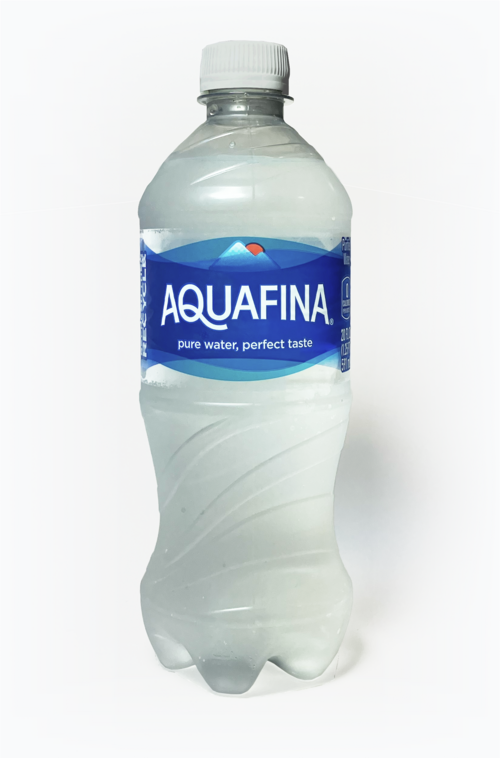
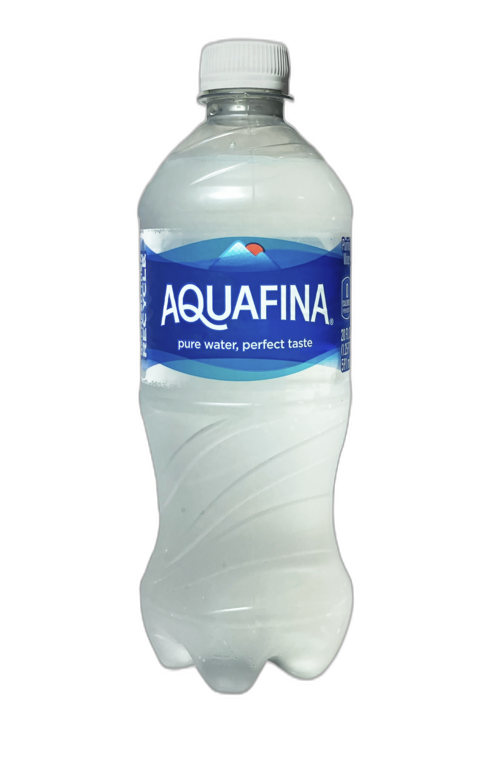
Xóa nền ảnh sản phẩm (rembg) - ảnh PNG trong suốt

diff --git a/index.html b/index.html
@@ -278,31 +278,31 @@
    ============================================================ */
 const PRODUCTS = [
   // --- Nước suối / khoáng ---
-  { id: 1,  name: "Nước suối Lavie 500ml",   category: "Nước suối",   price: 5000,  unit: "chai", desc: "Nước khoáng thiên nhiên, tinh khiết.",        icon: "💧", image: "images/1.jpg" },
+  { id: 1,  name: "Nước suối Lavie 500ml",   category: "Nước suối",   price: 5000,  unit: "chai", desc: "Nước khoáng thiên nhiên, tinh khiết.",        icon: "💧", image: "images/1.png" },
   { id: 2,  name: "Aquafina 500ml",          category: "Nước suối",   price: 5000,  unit: "chai", desc: "Nước tinh khiết đóng chai Pepsi.",            icon: "💦", image: "images/2.png" },
-  { id: 3,  name: "Nước khoáng Vĩnh Hảo 1.5L",category: "Nước suối",  price: 12000, unit: "chai", desc: "Chai lớn dùng cho gia đình.",                 icon: "🫗", image: "images/3.jpg" },
+  { id: 3,  name: "Nước khoáng Vĩnh Hảo 1.5L",category: "Nước suối",  price: 12000, unit: "chai", desc: "Chai lớn dùng cho gia đình.",                 icon: "🫗", image: "images/3.png" },
 
   // --- Nước ngọt có gas ---
-  { id: 4,  name: "Coca-Cola lon 330ml",     category: "Nước ngọt",   price: 10000, unit: "lon",  desc: "Vị cola sảng khoái kinh điển.",               icon: "🥤", image: "images/4.jpg" },
+  { id: 4,  name: "Coca-Cola lon 330ml",     category: "Nước ngọt",   price: 10000, unit: "lon",  desc: "Vị cola sảng khoái kinh điển.",               icon: "🥤", image: "images/4.png" },
   { id: 5,  name: "Pepsi lon 330ml",         category: "Nước ngọt",   price: 10000, unit: "lon",  desc: "Đậm vị, đã khát tức thì.",                    icon: "🥤", image: "images/5.png" },
-  { id: 6,  name: "7Up lon 330ml",           category: "Nước ngọt",   price: 10000, unit: "lon",  desc: "Vị chanh the mát lạnh.",                      icon: "🍋", image: "images/6.jpg" },
-  { id: 7,  name: "Sprite chai 600ml",       category: "Nước ngọt",   price: 12000, unit: "chai", desc: "Soda chanh, sủi bọt tươi mát.",               icon: "🥤", image: "images/7.jpg" },
+  { id: 6,  name: "7Up lon 330ml",           category: "Nước ngọt",   price: 10000, unit: "lon",  desc: "Vị chanh the mát lạnh.",                      icon: "🍋", image: "images/6.png" },
+  { id: 7,  name: "Sprite chai 600ml",       category: "Nước ngọt",   price: 12000, unit: "chai", desc: "Soda chanh, sủi bọt tươi mát.",               icon: "🥤", image: "images/7.png" },
 
   // --- Trà / nước trái cây ---
-  { id: 8,  name: "Trà Xanh 0 Độ 455ml",     category: "Trà",         price: 9000,  unit: "chai", desc: "Trà xanh thanh mát, không lo nóng.",          icon: "🍵", image: "images/8.jpg" },
-  { id: 9,  name: "Trà C2 360ml",            category: "Trà",         price: 8000,  unit: "chai", desc: "Trà ô long hương chanh.",                     icon: "🍃", image: "images/9.jpg" },
-  { id: 10, name: "Nước cam Twister 455ml",  category: "Trà",         price: 12000, unit: "chai", desc: "Nước cam ép, giàu vitamin C.",                icon: "🍊", image: "images/10.jpg" },
-  { id: 11, name: "Trà Dr Thanh 350ml",      category: "Trà",         price: 9000,  unit: "chai", desc: "Trà thảo mộc thanh nhiệt.",                   icon: "🌿", image: "images/11.jpg" },
+  { id: 8,  name: "Trà Xanh 0 Độ 455ml",     category: "Trà",         price: 9000,  unit: "chai", desc: "Trà xanh thanh mát, không lo nóng.",          icon: "🍵", image: "images/8.png" },
+  { id: 9,  name: "Trà C2 360ml",            category: "Trà",         price: 8000,  unit: "chai", desc: "Trà ô long hương chanh.",                     icon: "🍃", image: "images/9.png" },
+  { id: 10, name: "Nước cam Twister 455ml",  category: "Trà",         price: 12000, unit: "chai", desc: "Nước cam ép, giàu vitamin C.",                icon: "🍊", image: "images/10.png" },
+  { id: 11, name: "Trà Dr Thanh 350ml",      category: "Trà",         price: 9000,  unit: "chai", desc: "Trà thảo mộc thanh nhiệt.",                   icon: "🌿", image: "images/11.png" },
 
   // --- Nước tăng lực ---
-  { id: 12, name: "Red Bull lon 250ml",      category: "Tăng lực",    price: 12000, unit: "lon",  desc: "Tiếp thêm năng lượng tức thì.",               icon: "⚡", image: "images/12.jpg" },
-  { id: 13, name: "Sting dâu 330ml",         category: "Tăng lực",    price: 10000, unit: "lon",  desc: "Hương dâu, vị ngọt mạnh mẽ.",                 icon: "🔴", image: "images/13.jpg" },
-  { id: 14, name: "Monster Energy 355ml",    category: "Tăng lực",    price: 22000, unit: "lon",  desc: "Năng lượng cực mạnh cho game thủ.",           icon: "🟢", image: "images/14.jpg" },
+  { id: 12, name: "Red Bull lon 250ml",      category: "Tăng lực",    price: 12000, unit: "lon",  desc: "Tiếp thêm năng lượng tức thì.",               icon: "⚡", image: "images/12.png" },
+  { id: 13, name: "Sting dâu 330ml",         category: "Tăng lực",    price: 10000, unit: "lon",  desc: "Hương dâu, vị ngọt mạnh mẽ.",                 icon: "🔴", image: "images/13.png" },
+  { id: 14, name: "Monster Energy 355ml",    category: "Tăng lực",    price: 22000, unit: "lon",  desc: "Năng lượng cực mạnh cho game thủ.",           icon: "🟢", image: "images/14.png" },
 
   // --- Bia / nước khác ---
-  { id: 15, name: "Bia Tiger lon 330ml",     category: "Bia",         price: 16000, unit: "lon",  desc: "Bia lager mát lạnh (18+).",                   icon: "🍺", image: "images/15.jpg" },
+  { id: 15, name: "Bia Tiger lon 330ml",     category: "Bia",         price: 16000, unit: "lon",  desc: "Bia lager mát lạnh (18+).",                   icon: "🍺", image: "images/15.png" },
   { id: 16, name: "Nước yến Sanest lọ 70ml", category: "Khác",        price: 18000, unit: "lọ",   desc: "Nước yến bổ dưỡng, tốt cho sức khỏe.",        icon: "🍯" },
-  { id: 17, name: "Cốc đá",                  category: "Khác",        price: 5000,  unit: "cốc",  desc: "Cốc đá lạnh, dùng kèm nước giải khát.",       icon: "🧊", image: "images/17.jpg" },
+  { id: 17, name: "Cốc đá",                  category: "Khác",        price: 5000,  unit: "cốc",  desc: "Cốc đá lạnh, dùng kèm nước giải khát.",       icon: "🧊", image: "images/17.png" },
 ];
 
 const CART_KEY = "tap_hoa_nuoc_mat_cart";
